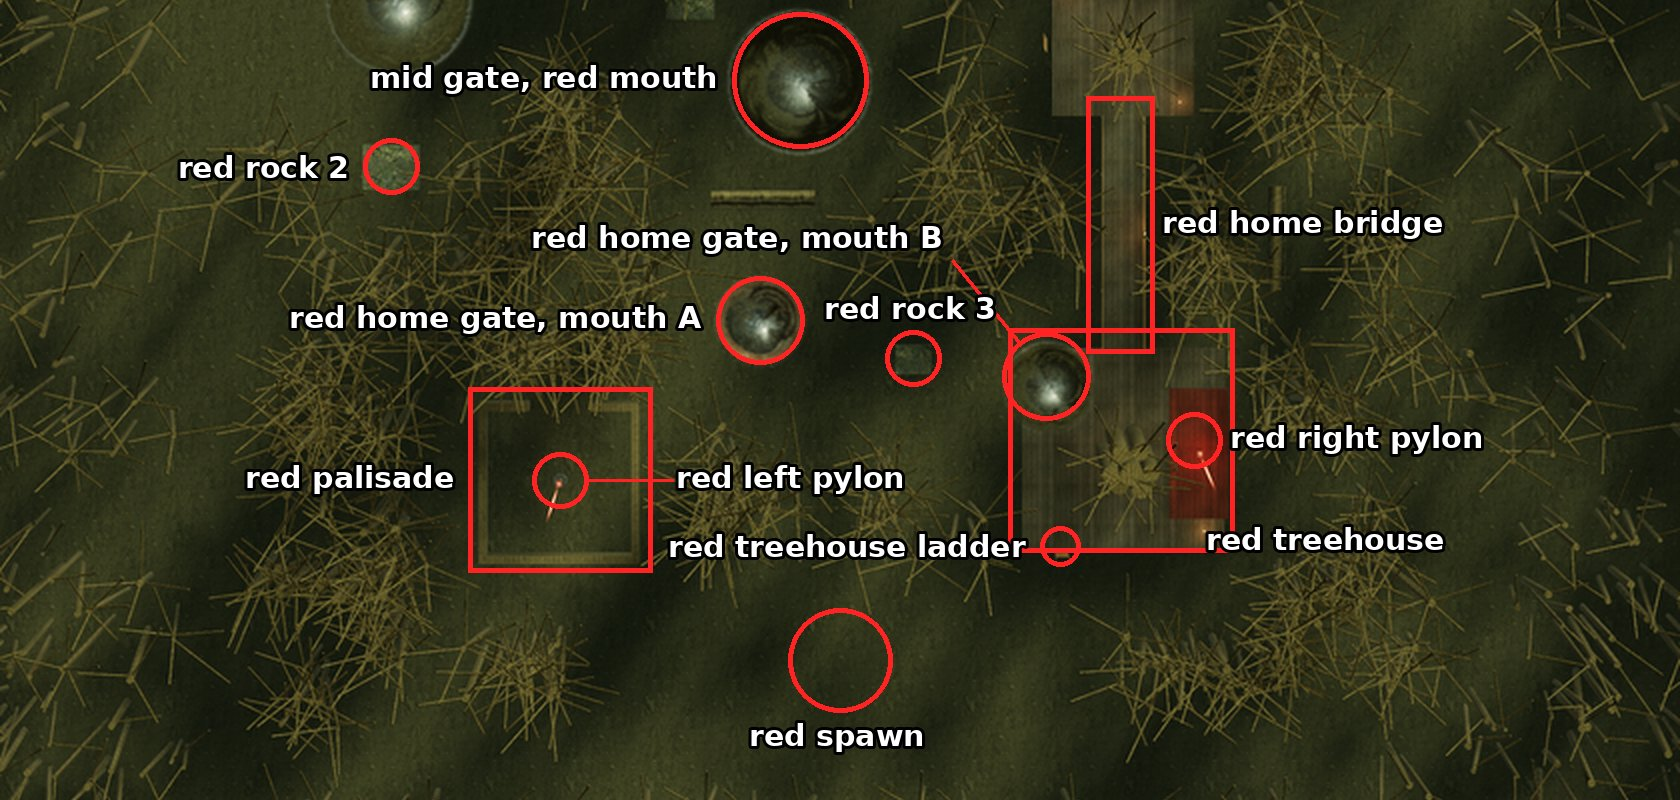
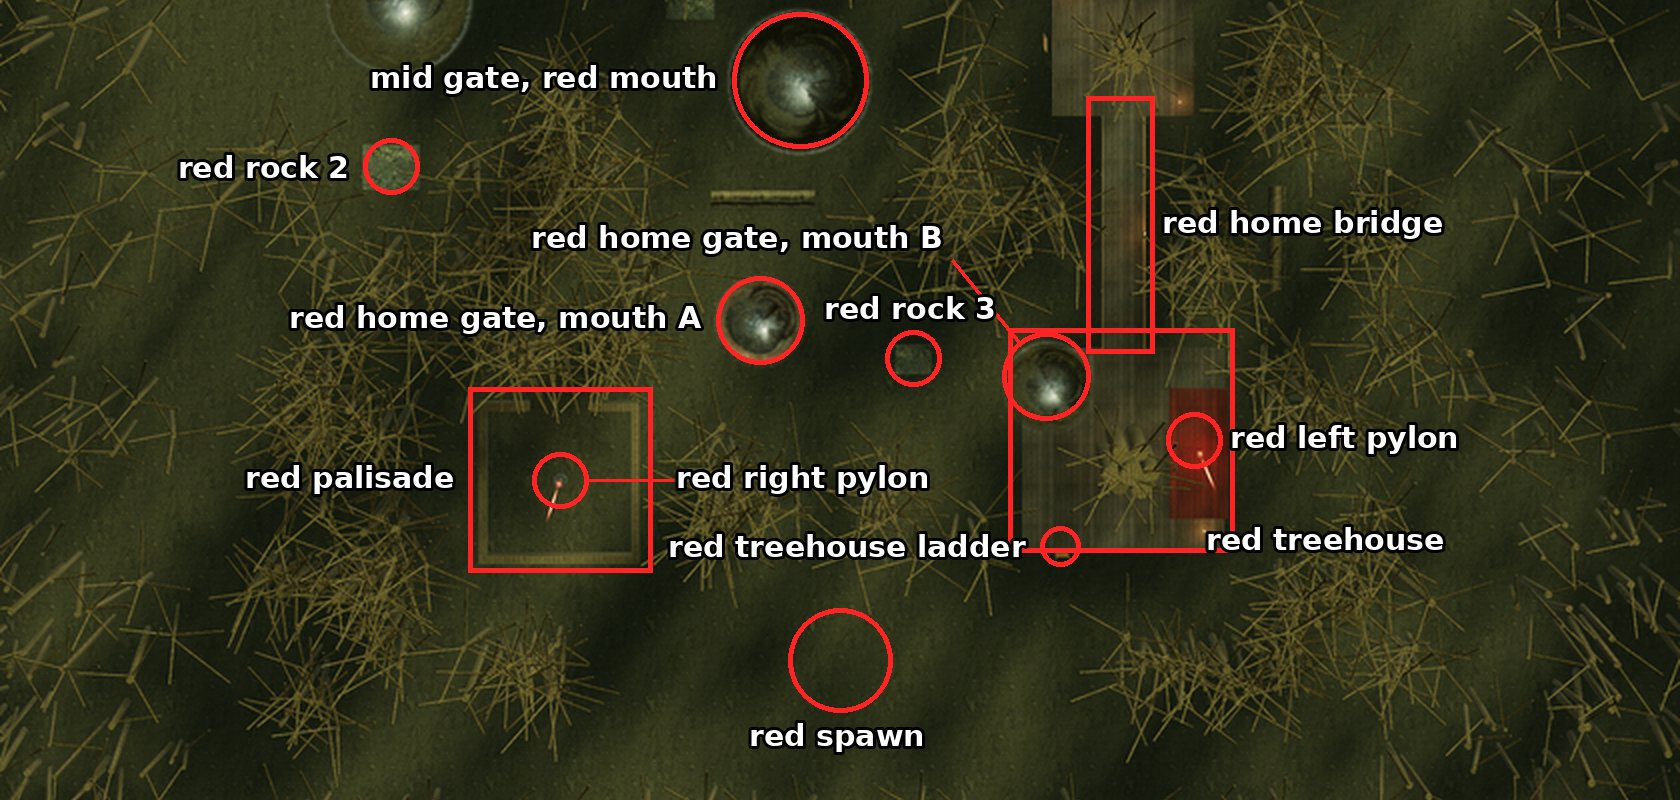
docs(game_design): Dark Forest's world names red's pylons from blue's side
Red's left and right pylons swap names, in the file and on the red
zone's picture, so that left and right are seen from blue's spawn as
the worlds README now says: the treehouse pylon is now the red left
pylon and the palisade pylon the red right pylon. The picture was
redrawn by the same scratch script with only the two names swapped.

AGENT TRACES

* Cursor Cloud Agent claude-opus-5-5-high, trace bc-94920122-6130-4e3d-bf9f-13da367e9d4c, cloud
  contributed: renamed red's left and right pylons and redrew the red zone's picture
  workspace: /home/ubuntu/wt-reorder, branch cursor/world-dark-forest-9d4c
  transcript: https://cursor.com/agents/bc-94920122-6130-4e3d-bf9f-13da367e9d4c
  read it: open https://cursor.com/agents/bc-94920122-6130-4e3d-bf9f-13da367e9d4c

Kind: docs, design
Component: game-design
Domain: level-layout
Area: game_design
Read: game_design/worlds/README.md, game_design/worlds/dark_forest.md
Verify: red pylon 1 (the new red left pylon) is on the same side as blue pylon 0 (blue left) in common/maps/dark_forest/map.json; nothing was run

Changed region(s): [[0.4333, 0.5625, 0.5571, 0.625], [0.7738, 0.5312, 0.8976, 0.5625]]

diff --git a/game_design/worlds/dark_forest.md b/game_design/worlds/dark_forest.md
@@ -8,7 +8,7 @@ level's length: the blue zone is more than 24 m from the middle on blue's side, 
 side, and the middle zone lies between.
 
 The pictures mark the game's map picture of Dark Forest (`demos/dark_forest_rust/assets/map_picture.png`), with blue at
-the top. Blue faces down the picture, so blue's left is the right of a picture, and red's left is the left. Names
+the top. Blue faces down the picture, so left (blue's left) is the right of a picture. Names
 follow the [naming rules](README.md#naming-rules), with the exceptions at the end of this file; the layout is
 [`common/maps/dark_forest/map.json`](../../common/maps/dark_forest/map.json).
 
@@ -36,8 +36,8 @@ Dark Forest
 │   └── red rock 0, red rock 1
 └── red zone
     ├── red spawn
-    ├── red left pylon, red palisade
-    ├── red right pylon, red treehouse, red treehouse ladder
+    ├── red right pylon, red palisade
+    ├── red left pylon, red treehouse, red treehouse ladder
     ├── red home bridge
     ├── red home gate, mouth A; red home gate, mouth B
     ├── mid gate, red mouth
@@ -89,10 +89,10 @@ Dark Forest
 | Name | What it is | Name in the level layout |
 | --- | --- | --- |
 | **red spawn** | Where red's players enter the level. | red spawn (six spawn points) |
-| **red palisade** | The square fence around red's left pylon. | red palisade |
-| **red left pylon** | Red's pylon inside the palisade, on red's left. | red pylon 0 |
-| **red treehouse** | The treehouse on red's right, which holds red's right pylon. | red treehouse |
-| **red right pylon** | Red's pylon in the treehouse. | red pylon 1 |
+| **red palisade** | The square fence around the red right pylon. | red palisade |
+| **red right pylon** | Red's pylon inside the palisade, on blue's right. | red pylon 0 |
+| **red treehouse** | The treehouse on blue's left, which holds the red left pylon. | red treehouse |
+| **red left pylon** | Red's pylon in the treehouse. | red pylon 1 |
 | **red treehouse ladder** | The rope ladder up to the treehouse. | red treehouse ladder |
 | **red home bridge** | The bridge from the treehouse toward the middle, to the red middle deck. | red home bridge |
 | **red home gate, mouth A**, **red home gate, mouth B** | The two mouths of the wormhole inside the red zone. | gate 3 mouth 0, gate 3 mouth 1 |
